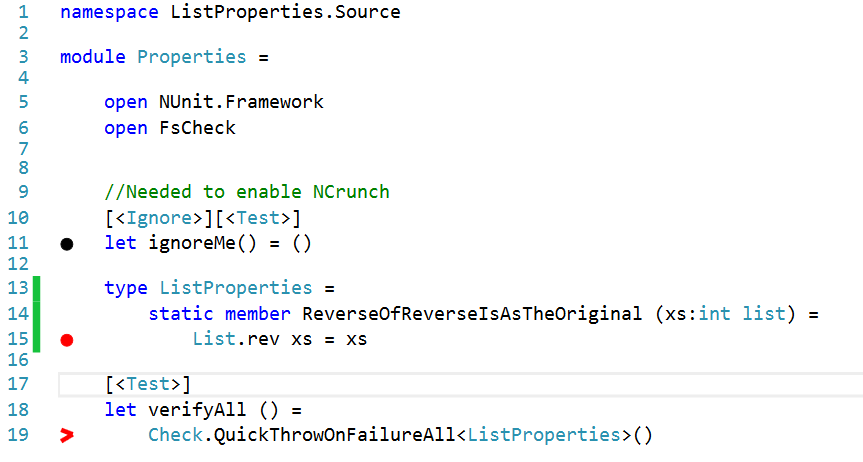
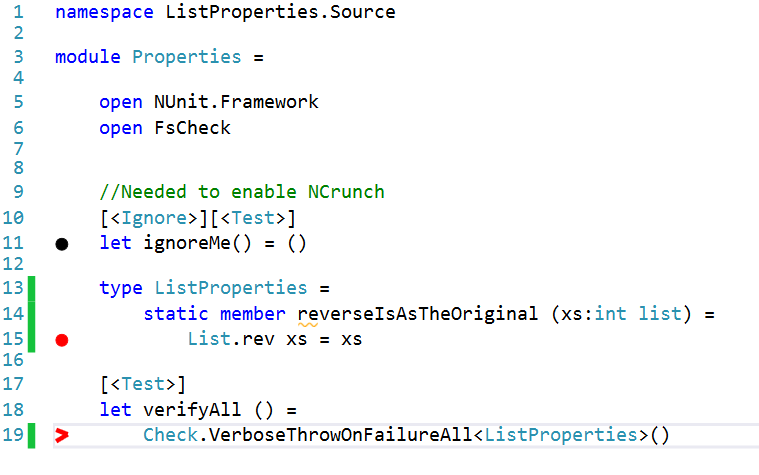
Changed screenshots and text to reflect code fixes

diff --git a/_posts/2015-11-25-Property-based-testing-FsCheck-Resharper-NCrunch-Visual-Studio-2013.md b/_posts/2015-11-25-Property-based-testing-FsCheck-Resharper-NCrunch-Visual-Studio-2013.md
@@ -75,7 +75,7 @@ If you are asking "How can I set up a development environment in .Net that would
             let ignoreMe() = () 
     ```
 	
-6. For this example I'll test a plainly wrong property about arrays which is **the reverse of an array is always equal to the original**. Create a static class whose methods are the properties you want to test
+6. Create a static class whose methods are the properties you want to test. For this example I'll test a plainly wrong property about lists which is **the reverse of a list is always equal to the original**. 
     
 	``` fs
             type ListProperties =     
@@ -100,13 +100,13 @@ If you are asking "How can I set up a development environment in .Net that would
 11. You should read a message similar to
     
 	```
-        -- Checking ListProperties ---
-        System.Reflection.TargetInvocationException : Exception has been thrown by the target of an invocation.
-        ---> System.Exception : ListProperties.reverseIsAsTheOriginal-Falsifiable, after 2 tests (4 shrinks) (StdGen (163791131,296083933)):
-        Original:
-		[|2; -1; 1; 1|]
-        Shrunk:
-        [|1; 0|]
+        --- Checking ListProperties ---
+		System.Reflection.TargetInvocationException : Exception has been thrown by the target of an invocation.
+		  ----> System.Exception : ListProperties.ReverseOfReverseIsAsTheOriginal-Falsifiable, after 6 tests (3 shrinks) (StdGen (1165808905,296086422)):
+		Original:
+		[-1; 2; -2]
+		Shrunk:
+		[1; 0]
     ```
 	
 12. This shows that the property was falsifiable (as expected) but let's try to gather more informations to address the issue
@@ -121,37 +121,56 @@ If you are asking "How can I set up a development environment in .Net that would
 14. Re-run the tests through Resharper Runner and read the output
     
 	```
-        0:
-		[|-1|]
-        1:
-		[|0|]
+        --- Checking ListProperties ---
+		0:
+		[-2]
+		1:
+		[-2; -2]
 		2:
-		[|1; -3; 0; 0|]
+		[]
+		3:
+		[1; 1]
+		4:
+		[-2]
+		5:
+		[-3; 1; 5; -3; 6; 2; 6; -2]
 		shrink:
-		[|-3; 0; 0|]
+		[1; 5; -3; 6; 2; 6; -2]
 		shrink:
-		[|-3; 0|]
+		[5; -3; 6; 2; 6; -2]
 		shrink:
-		[|3; 0|]
+		[-3; 6; 2; 6; -2]
 		shrink:
-		[|2; 0|]
+		[6; 2; 6; -2]
 		shrink:
-		[|1; 0|]
+		[2; 6; -2]
+		shrink:
+		[6; -2]
+		shrink:
+		[6; 2]
+		shrink:
+		[6; 0]
+		shrink:
+		[3; 0]
+		shrink:
+		[2; 0]
+		shrink:
+		[1; 0]
 		System.Reflection.TargetInvocationException : Exception has been thrown by the target of an invocation.
-        ----> System.Exception : ListProperties.reverseIsAsTheOriginal-Falsifiable, after 3 tests (5 shrinks) (StdGen (939147306,296083935)):
+		  ----> System.Exception : ListProperties.ReverseOfReverseIsAsTheOriginal-Falsifiable, after 6 tests (11 shrinks) (StdGen (1681135586,296086423)):
 		Original:
-		[|1; -3; 0; 0|]
+		[-3; 1; 5; -3; 6; 2; 6; -2]
 		Shrunk:
-        [|1; 0|]
+		[1; 0]
     ```
 	
-15. The output shows the "shrinking process" from the third input original value ```[|1; -3; 0; 0|]``` to the  "shrunk" input ```[|1; 0|]``` that still falsifies the property 
-16. Let's correct the property to make it not falsifiable
+15. The output shows the "shrinking process" from the third input original value ```[-3; 1; 5; -3; 6; 2; 6; -2]``` to the  "shrunk" input ```[1; 0]``` that still falsifies the property 
+16. Let's change correct the property as **the reverse of the reverse of a list is equal to the original**
     
 	``` fs
-            type ListProperties =  
-                static member reverseOfReverseIsAsTheOriginal (xs:int[]) = 
-                    Array.rev (Array.rev xs) = xs
+            type ListProperties =
+				static member ReverseOfReverseIsAsTheOriginal (xs:int list) = 
+					List.rev (List.rev xs) = xs
     ```
 	
 17. Re-run the tests that should be all green by now and read the output. You'll notice it's very verbose as expected and shows all the inputs used to verify the property.
